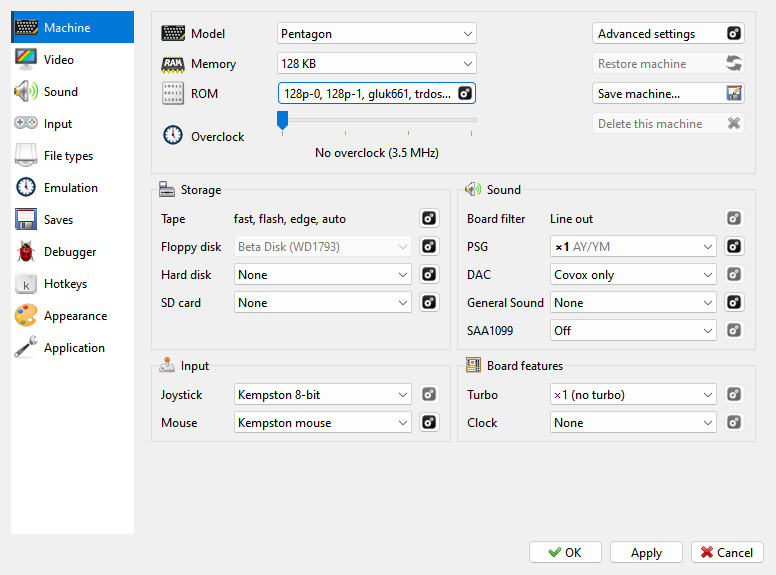
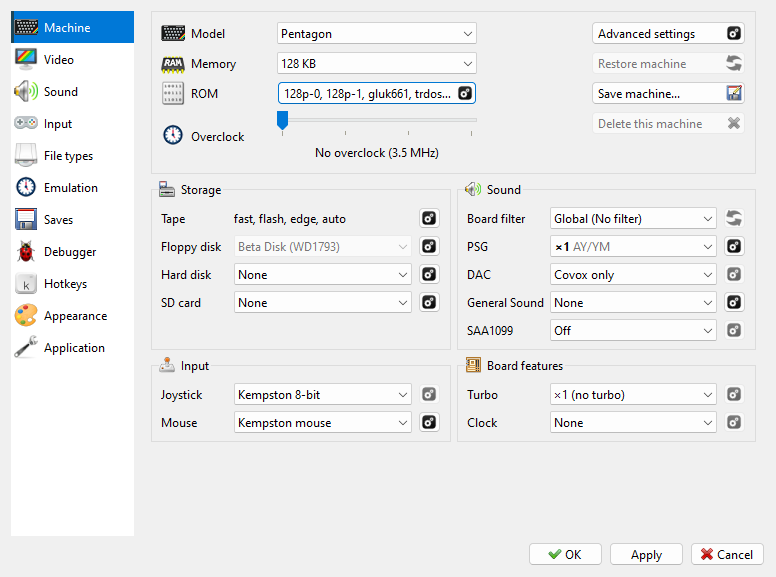
manual: a machine's own stereo, separation and board filter over Global; Machine spec for By machine; the PSG sheet's picture

diff --git a/docs/manual/options-sound.md b/docs/manual/options-sound.md
@@ -40,18 +40,19 @@ Under it are four groups.
   again after a long time with no gaps. The slider then shows the value the program has
   settled on.
 
-```{index} Stereo, Filters, Board filter, PSG stereo, Separation, PSG; stereo
+```{index} Stereo, Filters, Board filter, PSG stereo, Separation, PSG; stereo, Global, Machine spec
 ```
 
 **Stereo** and **Filters**, side by side, are how every machine is heard. This is a matter
-of taste, as a shader is, so it is set once here for all of them and stays when the machine
-changes.
+of taste, as a shader is, so it is set once here for all of them - **Global** - and stays
+when the machine changes. A machine can have its own **PSG stereo**, **Separation** and
+**Board filter** over these (see [A machine's own](#a-machines-own) below).
 
 **Stereo**:
 
 - **PSG stereo** - the order of the sound chip's three voices from left to right: **Mono**,
   **ABC**, **ACB**, **BAC**, **BCA**, **CAB**, **CBA**. **ABC** puts the second voice in the
-  middle; **ACB** puts the third voice there. **By machine**, the default, keeps each
+  middle; **ACB** puts the third voice there. **Machine spec**, the default, keeps each
   board's own - mono on the 128K, **ABC** on the Pentagon, **BAC** on the Scorpion - shown in
   the machine's **Machine: PSG**. The ZX Next keeps the order its own software sets.
 - **Separation** - how far apart the left and right sides are, for the sound chips (the ZX
@@ -63,9 +64,9 @@ changes.
 **Filters**:
 
 - **Board filter** - what every machine sounds through (see [Board filter](#board-filter)
-  below). **No filter**, the default, plays every machine clean. **By machine** gives each
-  machine its own board's filter, the one its **Board filter** row on the **Machine** page
-  shows: on the beeper, and on some boards on the sound chip. Any other choice puts all of
+  below). **No filter**, the default, plays every machine clean. **Machine spec** gives each
+  machine its own board's filter, the one its **Board filter** list on the **Machine** page
+  names: on the beeper, and on some boards on the sound chip. Any other choice puts all of
   the sound of every machine through that filter.
 - **Low cut (DC)** - takes out the lowest frequencies. The chips' output sits above zero
   rather than around it, and that offset only takes loudness away from the rest of the
@@ -89,7 +90,31 @@ changes.
 | **General Sound** | the General Sound card |
 | **SAA1099** | the SAA1099 chip |
 
-The **Sound** page is the same for every machine.
+The rest of the **Sound** page is the same for every machine.
+
+## A machine's own
+
+```{index} A machine's own, All to Global, Own settings
+```
+
+A machine can be heard otherwise than **Global**: its **PSG stereo** and **Separation** in
+**Machine: PSG** (see [PSG](options-machine.md#psg)), its **Board filter** on the **Machine**
+page (see [Board filter](options-machine.md#board-filter)). Each of those lists starts with
+two choices, the value each stands for now in brackets:
+
+- **Global**, the default - the machine is heard as this page sets every machine.
+- **Machine spec** - as its board was made, whatever this page says.
+
+Any other choice is the machine's own. It is heard whatever this page says, and a change
+here does not take it away. The {icon}`refresh` button beside the list puts the machine
+back to **Global**.
+
+While some machine has its own, a line under **Stereo** and **Filters** names them -
+**Own settings on 2 machines: ZX Spectrum +2, Pentagon** - and its tooltip says what each
+one has of its own. **All to Global** puts every machine back to **Global**: it asks first,
+with the same list, and keeps whatever else you changed on them.
+
+The ZX Next has no choices of its own here: it is heard as **Global** sets.
 
 ## Board filter
 
@@ -101,7 +126,8 @@ The beeper is a single bit of a port, but what you heard from it depended on the
 On some machines the sound chip went the same way. **Board filter** in **Filters**
 picks what every machine sounds through. Its choices are also under the arrow of the
 toolbar's {icon}`speaker` **Mute** button and in **Sound** of the right-click menu, and with
-them, under **Output filters**, **Low cut (DC)** and **High cut (anti-alias)**.
+them, under **Output filters**, **Low cut (DC)** and **High cut (anti-alias)**. They are
+**Global**: when the running machine has a filter of its own, the menu says so over them.
 
 The filter runs in the machine's time, so it slows down and speeds up with it: in **Slow
 Motion** a high tone it cuts stays cut as it drops in pitch. **No filter** in the list is
@@ -121,7 +147,7 @@ Motion** a high tone it cuts stays cut as it drops in pitch. **No filter** in th
 The low-pass and high-pass filters here fall off 6 dB an octave unless the table says
 otherwise.
 
-**By machine**, a filter takes what the table's third column says, as the board did; the
+With **Machine spec**, a filter takes what the table's third column says, as the board did; the
 other sound devices - General Sound, the SAA1099, Covox and Soundrive - have outputs of their
 own on every board and are not filtered. A filter picked from the list takes all of the sound,
 the sound chips and cards too: it is how the music would sound through that board, whether

diff --git a/docs/manual/options-machine.md b/docs/manual/options-machine.md
@@ -46,7 +46,7 @@ Esc) puts back what it showed when it opened.
 | **Input** | **Joystick** | **None**, **Kempston 5-bit**, **Kempston 8-bit**; not 8-bit on the Scorpion ZS 256 and Turbo+ (see [Joysticks](input.md#joysticks)) |
 | | **Mouse** | **None** or **Kempston mouse**; sensitivity and wheel in its window (see [Mouse](input.md#mouse)) |
 | | **PC keyboard** | ATM Turbo 2+ and ZX Evolution only: which scan codes the machine gets (see [Machines with a keyboard of their own](input.md#machines-with-a-keyboard-of-their-own)) |
-| **Sound** | **Board filter** | what the board put between the beeper and your ears, shown: heard with **Board filter** at **By machine** on the **Sound** page (see [Board filter](#board-filter)) |
+| **Sound** | **Board filter** | **Global** (the **Sound** page's), **Machine spec** - what the board put between the beeper and your ears - or any filter, for this machine only (see [Board filter](#board-filter)) |
 | | **PSG** | the AY/YM chips, from **None** to **x3 - ZX Next**; chip, clock and stereo in its window (see [PSG](#psg)) |
 | | **DAC** | **None**, **Covox only**, **Soundrive 1.05 mode 1** or **mode 2** |
 | | **General Sound** | **None**, **Original** or **NeoGS** (see [General Sound](#general-sound)); its ROM in its window |
@@ -182,11 +182,19 @@ device's further settings. How loud each device plays is set on the
 
 The beeper is a single bit of a port, but what you heard from it depended on the board: a
 48K's own small speaker, a TV, an amplifier behind a coupling capacitor. On some machines
-the sound chip went the same way. The **Board filter** row shows what this machine's board
-put there - **TV (RF)** on the 128K, **Line out** on the Pentagon. It is a fact of the
-board, not a setting: it is heard with **Board filter** at **By machine** on the **Sound**
-page, where any other filter can be picked for every machine instead (see
-[Board filter](options-sound.md#board-filter)).
+the sound chip went the same way. The **Board filter** list picks what this machine is
+heard through:
+
+- **Global**, the default - the **Board filter** of the **Sound** page, which every machine
+  set to **Global** shares; in brackets, what that is now.
+- **Machine spec** - what this machine's board put there, named in brackets: **TV (RF)** on
+  the 128K, **Line out** on the Pentagon.
+- **No filter** or any filter of the list - for this machine only, whatever the **Sound**
+  page says.
+
+The {icon}`refresh` button at the end of the row puts it back to **Global**. The filters are
+described in [Board filter](options-sound.md#board-filter); [A machine's own](options-sound.md#a-machines-own)
+says how the **Sound** page shows the machines with a choice of their own.
 
 ### PSG
 
@@ -215,6 +223,9 @@ same.
 
 The {icon}`settings` gear opens **Machine: PSG**:
 
+![Machine: PSG, an order of the machine's own](images/options-machine-psg.png)
+
+
 - **Chip** - **AY-3-8910** or **YM2149**. The two sound alike; the YM2149 plays volume
   envelopes in finer steps. **YM2203** is the chip of TurboSound FM: choosing
   **x2 - TurboSound FM** sets it, and the list is then grayed out.
@@ -223,10 +234,15 @@ The {icon}`settings` gear opens **Machine: PSG**:
   value. **1.773447** is the clock of the ZX Spectrum 128, +2 and +3; **1.75** that of
   most clones. Music written for one of them sounds a little out of tune on the other.
   You can also type a clock of your own.
-- **Stereo** - how this board sends the three voices out: **Mono**, or their order from
-  left to right, as **ABC** on the Pentagon or **BAC** on the Scorpion. It is shown, not
-  set: it is heard with **PSG stereo** at **By machine** on the **Sound** page, where
-  another order can be picked for every machine (see [Sound page](options-sound.md)).
+- **Stereo** - the order of the three voices from left to right for this machine:
+  **Global** (the default) takes **PSG stereo** of the **Sound** page; **Machine spec** how
+  this board sends them out - **Mono** on the 128K, **ABC** on the Pentagon, **BAC** on the
+  Scorpion; **Mono** or an order is this machine's own, whatever the **Sound** page says.
+  The {icon}`refresh` button puts it back to **Global** (see
+  [A machine's own](options-sound.md#a-machines-own)).
+- **Separation** - with an order of the machine's own, how far apart its sides are, as
+  **Separation** on the **Sound** page is for the others. It starts at that page's value.
+  **Global** and **Machine spec** take the **Sound** page's.
 
 ### DAC
 
